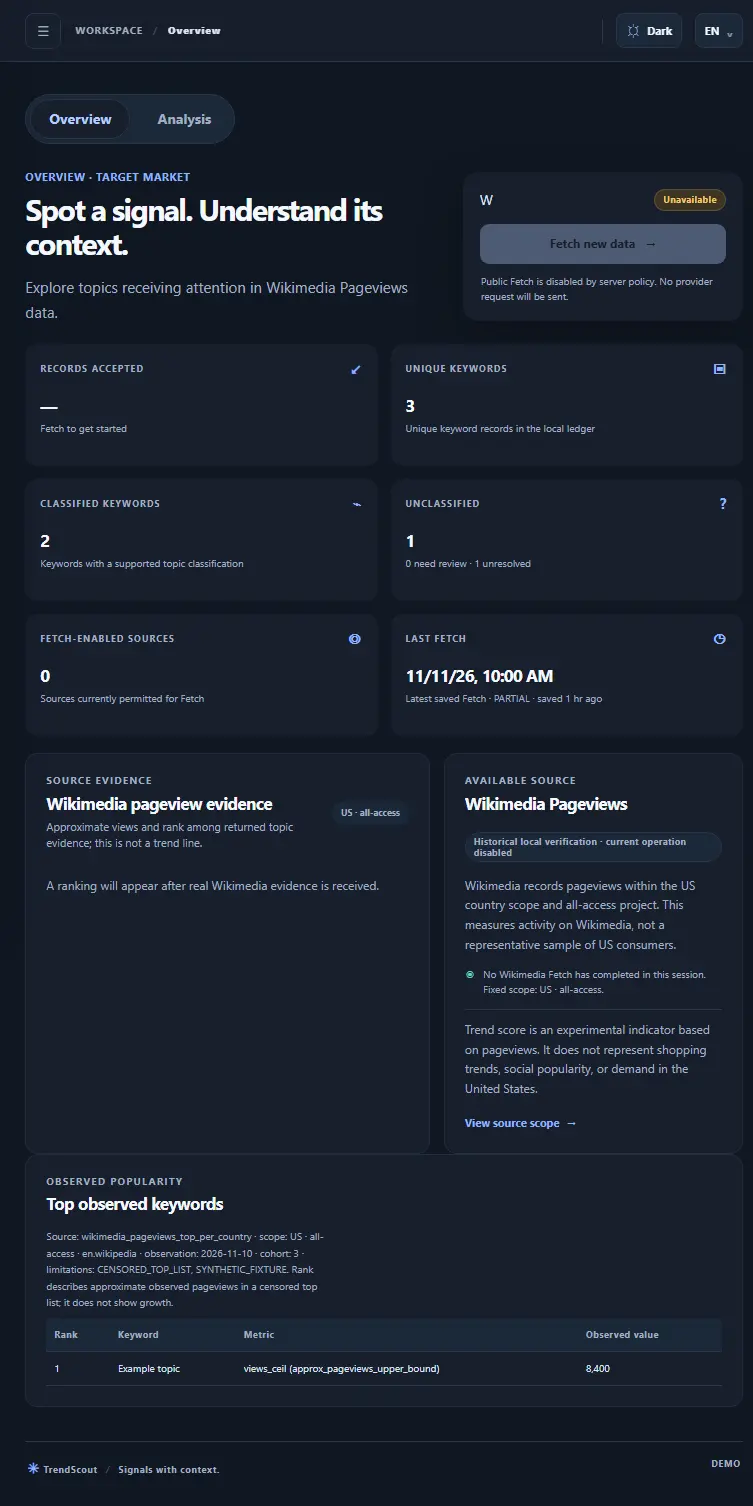
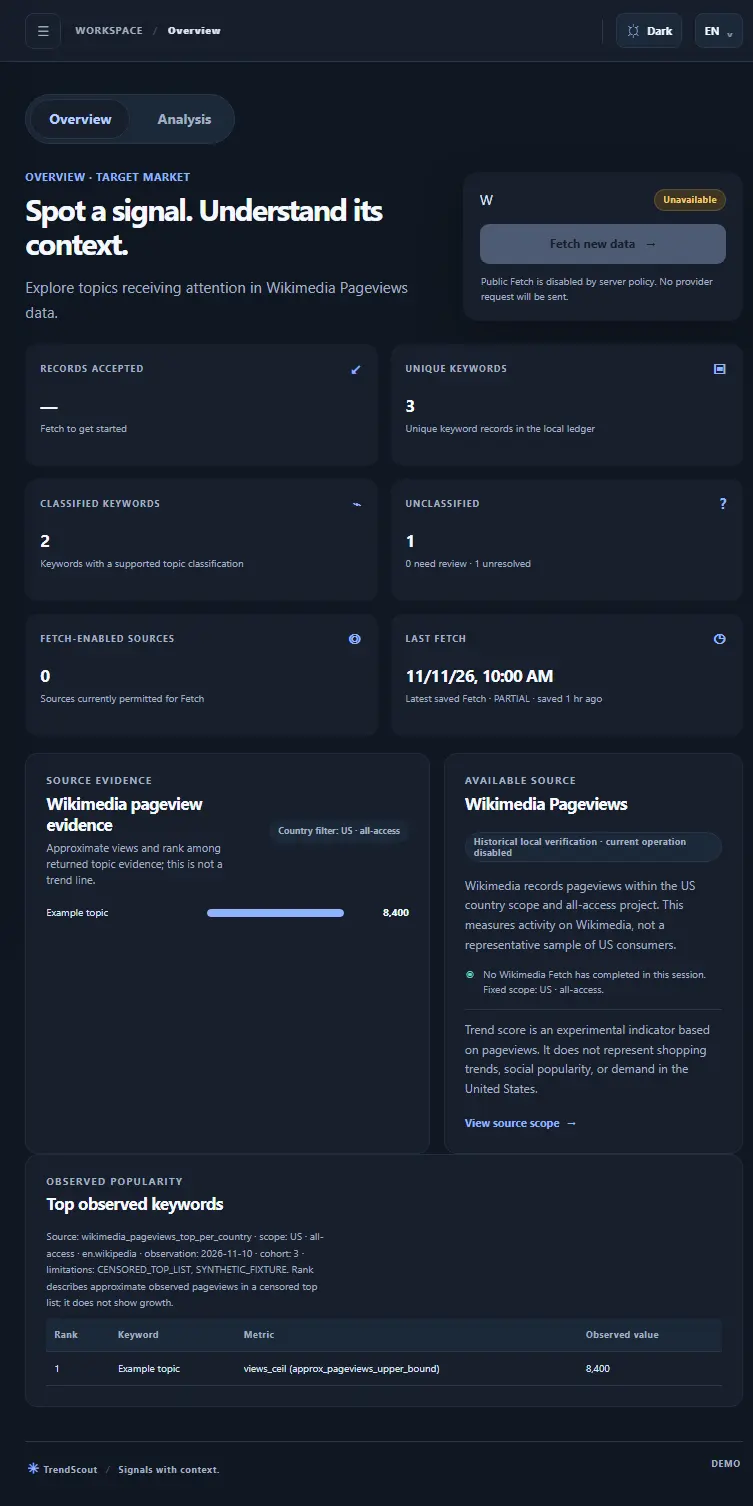
feat(analytics): chart persisted comparable top observations

Changed region(s): [[0.0611, 0.5305, 0.5193, 0.6242], [0.5193, 0.593, 0.5498, 0.6242]]

diff --git a/Frontend/public/app.js b/Frontend/public/app.js
@@ -157,6 +157,7 @@ async function loadAnalytics() {
       (data.observations_over_time || []).map(row => [row.observation_date, row.source, number(row.observed), number(row.unavailable)]), t('analysis.history-note'));
     const top = data.top_observed || [];
     const target = $('#overview-top-keywords');
+    renderObservedVolumeChart(top, data.top_observed_context || {});
     if (target) {
       const c=data.top_observed_context || {};
       const scope=Array.isArray(c.scope) ? c.scope.slice(1,4).join(' · ') : '—';
@@ -167,6 +168,31 @@ async function loadAnalytics() {
     for (const id of ['analysis-source-volume','analysis-algorithms','analysis-effectiveness','analysis-source-operations','analysis-coverage','analysis-history']) {
       const root = $('#' + id); if (root) root.replaceChildren(element('p', getErrorMessage(error, 'analysis.error')));
     }
+  }
+}
+
+function renderObservedVolumeChart(rows, context) {
+  const chart = $('#pageviews-chart');
+  const empty = $('#pageviews-empty');
+  if (!chart || !empty) return;
+  chart.replaceChildren();
+  const comparable = (Array.isArray(rows) ? rows : []).filter((row) => Number.isFinite(row.observed_value) && row.observed_value >= 0).slice(0, 5);
+  empty.hidden = comparable.length > 0;
+  if (!comparable.length) return;
+  const maximum = Math.max(...comparable.map((row) => row.observed_value), 1);
+  chart.setAttribute('aria-label', t('analysis.top-observed-title'));
+  for (const rowData of comparable) {
+    const row = element('li', null, 'chart-row');
+    const label = element('span', rowData.keyword || '—', 'chart-label');
+    const track = element('span', null, 'chart-track');
+    const bar = element('span', null, 'chart-bar');
+    bar.setAttribute('aria-hidden', 'true');
+    bar.style.width = `${Math.max(3, (rowData.observed_value / maximum) * 100)}%`;
+    track.append(bar);
+    const value = element('strong', number(rowData.observed_value), 'chart-value');
+    row.title = `${number(rowData.rank)} · ${rowData.metric || '—'} (${rowData.unit || '—'}) · ${context.observation_date || '—'}`;
+    row.append(label, track, value);
+    chart.append(row);
   }
 }
 

diff --git a/Frontend/public/modules/i18n/vi.js b/Frontend/public/modules/i18n/vi.js
@@ -335,7 +335,7 @@ export const vi = {
   'chart.kicker': 'BẰNG CHỨNG NGUỒN',
   'chart.title': 'Bằng chứng lượt xem Wikimedia',
   'chart.help': 'Lượt xem xấp xỉ và thứ hạng trong phần bằng chứng chủ đề được trả về; không phải đường xu hướng.',
-  'chart.scope': 'US · mọi quyền truy cập',
+  'chart.scope': 'Bộ lọc quốc gia: US · mọi quyền truy cập',
   'chart.empty': 'Bảng xếp hạng chỉ xuất hiện sau khi nhận được bằng chứng thật từ Wikimedia.',
   'source.checking': 'Đang kiểm tra',
   'fetch.cta': 'Thu thập dữ liệu mới',

diff --git a/Frontend/public/modules/i18n/en.js b/Frontend/public/modules/i18n/en.js
@@ -335,7 +335,7 @@ export const en = {
   'chart.kicker': 'SOURCE EVIDENCE',
   'chart.title': 'Wikimedia pageview evidence',
   'chart.help': 'Approximate views and rank among returned topic evidence; this is not a trend line.',
-  'chart.scope': 'US · all-access',
+  'chart.scope': 'Country filter: US · all-access',
   'chart.empty': 'A ranking will appear after real Wikimedia evidence is received.',
   'source.checking': 'Checking',
   'fetch.cta': 'Fetch new data',

diff --git a/Backend/tests/browser_d2_visual_offline.py b/Backend/tests/browser_d2_visual_offline.py
@@ -116,6 +116,8 @@ def main():
 window.waitFor=async function(p){for(let n=0;n<100;n++){if(p())return true;await new Promise(r=>setTimeout(r,20));}return false;};
 """
             evaluate(async_def_js)
+            if not evaluate("window.waitFor(()=>document.querySelectorAll('#pageviews-chart .chart-row').length===1)", await_promise=True):
+                raise RuntimeError("persisted comparable Top 5 did not render in the overview chart")
 
             def set_viewport(width, height=900):
                 call(

diff --git a/Documents/Reports/OVERNIGHT_G2_G7_FINAL_REPORT.md b/Documents/Reports/OVERNIGHT_G2_G7_FINAL_REPORT.md
@@ -70,7 +70,7 @@ The taxonomy retained stable IDs and added evidenced leaves for settlements, mon
 ## G3–G7 implementation detail
 
 - **Source Center:** `GET /api/v1/sources/library` returns the dated research catalog. Runtime capability descriptors are composed from backend source capabilities. UI status axes do not imply production enablement or quota knowledge. The catalog's 81 candidates remain non-integrated.
-- **Dashboard:** `GET /api/v1/analytics/overview` uses the actual SQLite ledger. Current counts are 154 unique/eligible, 148 classified, 4 ambiguous, 1 unknown, 1 ineligible, 6 unclassified, one source, 154 observations and 1,848 algorithm results. Top 5 is computed from one latest source/project/date/metric/unit cohort and labels its values approximate/censored/partial as applicable. Current cohort is `wikimedia_pageviews_top_per_country`, `en.wikipedia`, 2026-11-11, 148 records. The ranking is observed volume rank, not growth.
+- **Dashboard:** `GET /api/v1/analytics/overview` uses the actual SQLite ledger. Current counts are 154 unique/eligible, 148 classified, 4 ambiguous, 1 unknown, 1 ineligible, 6 unclassified, one source, 154 observations and 1,848 algorithm results. Top 5 is computed from one latest source/project/date/metric/unit cohort and labels its values approximate/censored/partial as applicable. Current cohort is `wikimedia_pageviews_top_per_country`, `en.wikipedia`, 2026-11-11, 148 records. The ranking is observed volume rank, not growth. The Overview bar chart now uses those same persisted Top 5 values; its label says “Country filter” so US scope is not presented as author or reader nationality. The evidence table remains below the chart.
 - **Run History:** `GET /api/v1/runs/history` and `GET /api/v1/runs/history/{fetch_id}` expose the local persistent run ledger. Eleven SQLite task rows were visible during read-only verification. History does not imply coverage of the separate Firestore manual-run store.
 - **Algorithm intelligence:** all 12 registered algorithms were present, with result rows already persisted for all 154 × 12 pairs. The two compatible descriptive rank methods have 150 completed and 4 skipped results each; other methods are skipped when the one-snapshot metric lacks required history/compatibility. Effectiveness is `NOT_YET_EVALUATED`; no winner is fabricated.
 - **Product Research:** new `/api/v1/research` GET/POST/PATCH endpoints persist researcher-entered product hypotheses, category/niche, competitors, market evidence, IP notes, risks, findings and status. “Validated” means validated by the researcher, not independently verified. No sales, demand, market size or opportunity score is inferred from pageviews.
